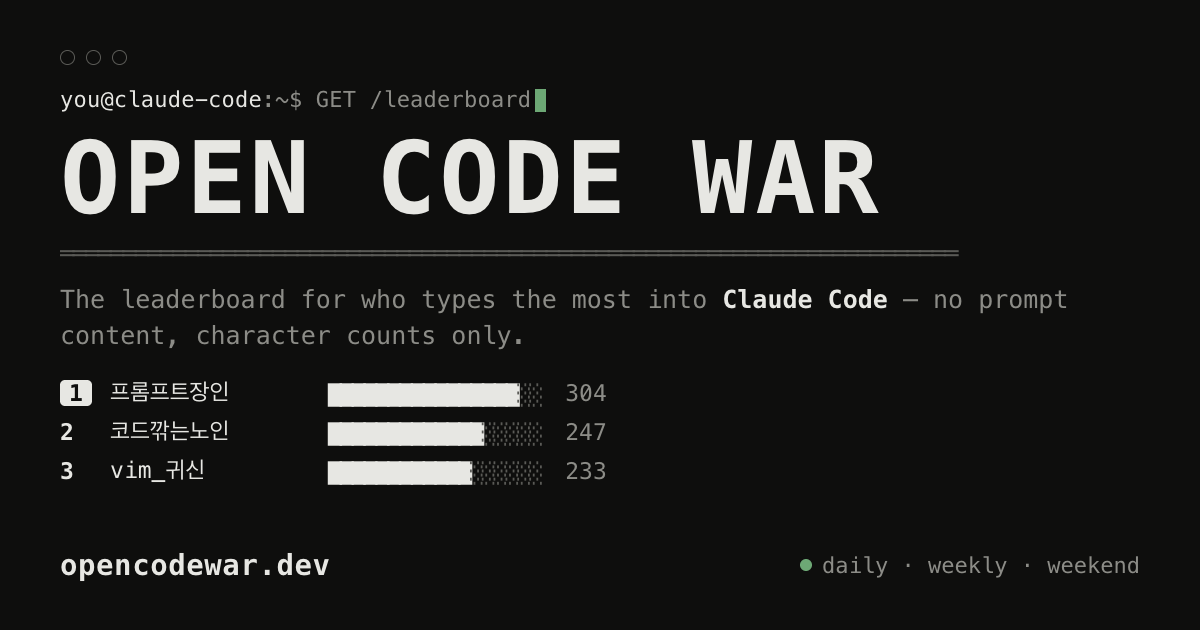
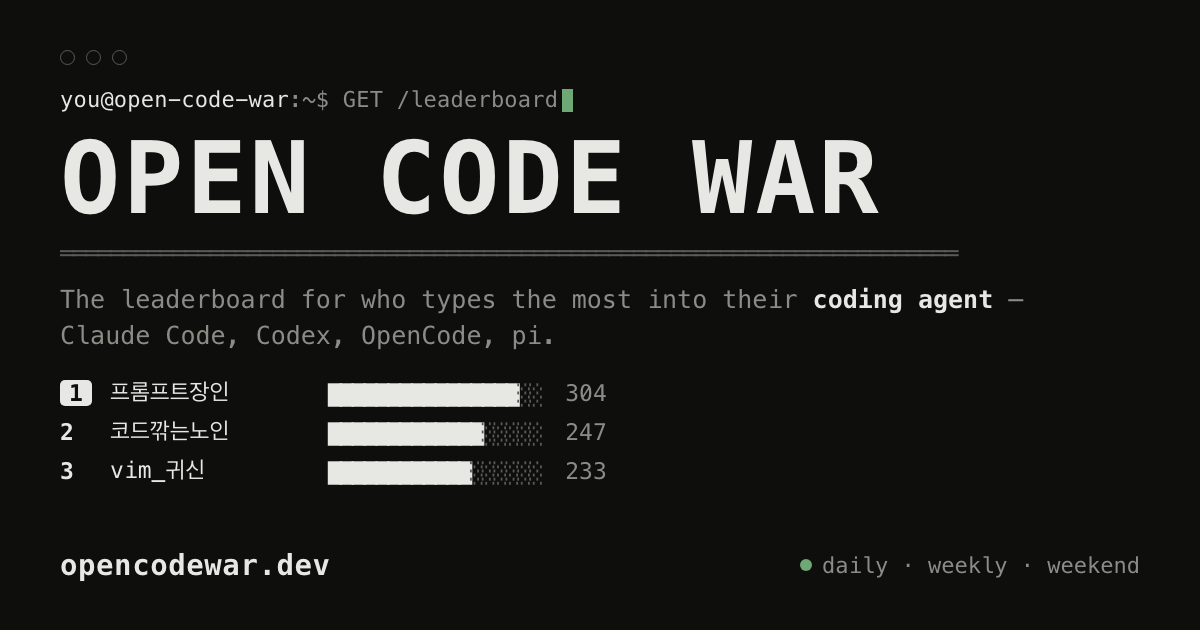
소개 문구를 코딩 에이전트 전반으로 확장
네 에이전트(Claude Code·Codex·OpenCode·pi)를 모두 지원하게 됐는데 소개 문구는
아직 Claude Code 전용처럼 읽혀서, 유저 대면 카피를 일괄로 넓혔다.

- 태그라인: "코딩 에이전트에 가장 많이 입력한 코더를 가리는 리더보드 —
  클로드 코드·코덱스·오픈코드·파이" (EN/KO). 중립 표현으로 넓히되 지원 목록을
  병기해, 검색·공유에서 각 에이전트 이름이 걸리고 신규 유저가 자기 도구가
  되는지 바로 확인할 수 있게 했다
- web: meta description·og·twitter·JSON-LD 전부 갱신. og:title 은
  "Claude Code Leaderboard" → "Coding Agent Leaderboard"
- 터미널 시그니처 you@claude-code → you@open-code-war (index·privacy)
- og.png 재생성: 문구가 이미지에 구워져 있어 mockups/og.html 을 고치고
  헤드리스 크롬으로 1200x630 다시 렌더. 디자인은 그대로, 문구만 교체
- README(한/영): 헤드라인·배지·푸터 확장, 아키텍처 도식 좌측 박스를
  "코딩 에이전트 훅·어댑터"로 교체(한글 폭 계산해 정렬 유지),
  저장소 구조에 adapters/ 추가, "다른 에이전트" 설치 섹션 신설
  (Codex 는 trust 승인 단계까지 명시)
- backend/og.ts: 프로필 공유 카드 설명을 coding agent activity 로. 테스트 동기화
- 플러그인 메타(marketplace.json·plugin.json): 코딩 에이전트 기준으로 설명 수정,
  Claude Code 훅 + 어댑터 합산이라는 점 명시, 키워드에 codex·opencode 추가

훅 동작을 설명하는 기술 서술(track.mjs·validate.ts·adapters·DESIGN §4)은
실제로 Claude Code 를 특정하는 내용이라 넓히지 않고 그대로 뒀다.

Changed region(s): [[0.5858, 0.4524, 0.8942, 0.5127], [0.0925, 0.1206, 0.4933, 0.181], [0.0308, 0.5127, 0.4625, 0.573]]

diff --git a/web/index.html b/web/index.html
@@ -4,7 +4,7 @@
 <meta charset="utf-8" />
 <meta name="viewport" content="width=device-width, initial-scale=1" />
 <title>Open Code War — Leaderboard (live)</title>
-<meta name="description" content="A live leaderboard for who types the most into Claude Code — daily, weekly & weekend. Privacy-first: no prompt content collected, only character counts." />
+<meta name="description" content="A live leaderboard for who types the most into their coding agent — Claude Code, Codex, OpenCode, pi. Daily, weekly & weekend. Privacy-first: no prompt content collected, only character counts." />
 <link rel="canonical" href="https://opencodewar.dev/" />
 <link rel="icon" href="/favicon.svg" type="image/svg+xml" />
 <meta name="theme-color" media="(prefers-color-scheme: light)" content="#F6F6F4" />
@@ -13,20 +13,20 @@
 <!-- Open Graph (Facebook, KakaoTalk, Slack, LinkedIn 등) -->
 <meta property="og:type" content="website" />
 <meta property="og:site_name" content="Open Code War" />
-<meta property="og:title" content="Open Code War — Claude Code Leaderboard" />
-<meta property="og:description" content="A live leaderboard for who types the most into Claude Code — daily, weekly & weekend. No prompt content collected." />
+<meta property="og:title" content="Open Code War — Coding Agent Leaderboard" />
+<meta property="og:description" content="A live leaderboard for who types the most into their coding agent — Claude Code, Codex, OpenCode, pi. No prompt content collected." />
 <meta property="og:url" content="https://opencodewar.dev/" />
 <meta property="og:image" content="https://opencodewar.dev/og.png" />
 <meta property="og:image:width" content="1200" />
 <meta property="og:image:height" content="630" />
-<meta property="og:image:alt" content="Open Code War — the Claude Code typing leaderboard" />
+<meta property="og:image:alt" content="Open Code War — the coding agent typing leaderboard" />
 <meta property="og:locale" content="en_US" />
 <meta property="og:locale:alternate" content="ko_KR" />
 
 <!-- Twitter / X -->
 <meta name="twitter:card" content="summary_large_image" />
-<meta name="twitter:title" content="Open Code War — Claude Code Leaderboard" />
-<meta name="twitter:description" content="A live leaderboard for who types the most into Claude Code. Privacy-first: no prompt content, only character counts." />
+<meta name="twitter:title" content="Open Code War — Coding Agent Leaderboard" />
+<meta name="twitter:description" content="A live leaderboard for who types the most into their coding agent — Claude Code, Codex, OpenCode, pi. Privacy-first: no prompt content, only character counts." />
 <meta name="twitter:image" content="https://opencodewar.dev/og.png" />
 
 <!-- 구조화 데이터 (검색 리치 결과) -->
@@ -38,7 +38,7 @@
   "url": "https://opencodewar.dev/",
   "applicationCategory": "DeveloperApplication",
   "operatingSystem": "Any",
-  "description": "A live leaderboard for who types the most into Claude Code — daily, weekly and weekend boards. Privacy-first: no prompt content is collected, only character counts.",
+  "description": "A live leaderboard for who types the most into their coding agent — Claude Code, Codex, OpenCode and pi. Daily, weekly and weekend boards. Privacy-first: no prompt content is collected, only character counts.",
   "offers": { "@type": "Offer", "price": "0", "priceCurrency": "USD" }
 }
 </script>
@@ -237,14 +237,14 @@
       <button class="theme-toggle" id="themeBtn" type="button">◐ theme</button>
     </div>
     <div class="screen">
-      <div class="echo"><span class="sig">you@claude-code</span>:~$ <span id="cmdEcho">GET /leaderboard?type=daily&amp;metric=prompts</span> <span class="cursor" aria-hidden="true"></span></div>
+      <div class="echo"><span class="sig">you@open-code-war</span>:~$ <span id="cmdEcho">GET /leaderboard?type=daily&amp;metric=prompts</span> <span class="cursor" aria-hidden="true"></span></div>
 
       <div id="boardView">
       <section class="box banner">
         <span class="legend">ocw · live</span>
         <h1 class="big">OPEN CODE WAR</h1>
         <div class="rule" aria-hidden="true">════════════════════════════════════════════════════════════════</div>
-        <p data-i18n="tagline">The leaderboard for who types the most into Claude Code — updated on a schedule.</p>
+        <p data-i18n="tagline">The leaderboard for who types the most into their coding agent — Claude Code, Codex, OpenCode, pi.</p>
         <div class="status">
           <span><span class="dotlive" id="liveDot" aria-hidden="true"></span><span id="liveText">Connecting…</span></span>
           <span><span data-i18n="joined">joined</span> <b id="countChip">–</b></span>
@@ -400,7 +400,7 @@
   const T = {
     en: {
       langBtn: '한국어',
-      tagline: 'The leaderboard for who types the most into Claude Code — updated on a schedule.',
+      tagline: 'The leaderboard for who types the most into their coding agent — Claude Code, Codex, OpenCode, pi.',
       live_on: 'Live', live_off: 'Server unreachable',
       joined: 'joined', rank1: '#1', updated: 'Updated',
       sub_daily: 'today', sub_weekly: 'mon–sun', sub_weekend: 'fri·sat·sun',
@@ -430,7 +430,7 @@
     },
     ko: {
       langBtn: 'EN',
-      tagline: '클로드 코드에 가장 많이 입력한 코더를 가리는 리더보드 — 일정 간격으로 갱신.',
+      tagline: '코딩 에이전트에 가장 많이 입력한 코더를 가리는 리더보드 — 클로드 코드·코덱스·오픈코드·파이.',
       live_on: '집계 중', live_off: '서버 연결 실패',
       joined: '참가', rank1: '1위', updated: '집계',
       sub_daily: '일간', sub_weekly: '주간', sub_weekend: '금·토·일',

diff --git a/backend/test/og.test.ts b/backend/test/og.test.ts
@@ -41,27 +41,27 @@ const row = (overrides: Partial<ProfileMetaRow> = {}): ProfileMetaRow => ({
 describe('buildOgDescription', () => {
   it('role·company·bio 를 모두 조합한다', () => {
     const desc = buildOgDescription(row({ role: 'Backend Engineer', company: 'Acme', bio: '타이핑이 곧 실력' }));
-    expect(desc).toBe('Backend Engineer @ Acme · 타이핑이 곧 실력 — Claude Code activity on Open Code War.');
+    expect(desc).toBe('Backend Engineer @ Acme · 타이핑이 곧 실력 — coding agent activity on Open Code War.');
   });
 
   it('role 만 있으면 company 구분자(@) 없이 만든다', () => {
     const desc = buildOgDescription(row({ role: 'Backend Engineer' }));
-    expect(desc).toBe('Backend Engineer — Claude Code activity on Open Code War.');
+    expect(desc).toBe('Backend Engineer — coding agent activity on Open Code War.');
   });
 
   it('bio 만 있으면 bio 로 시작한다', () => {
     const desc = buildOgDescription(row({ bio: '주말에도 코딩' }));
-    expect(desc).toBe('주말에도 코딩 — Claude Code activity on Open Code War.');
+    expect(desc).toBe('주말에도 코딩 — coding agent activity on Open Code War.');
   });
 
   it('프로필 정보가 없으면 기본 문구를 쓴다', () => {
     const desc = buildOgDescription(row());
-    expect(desc).toBe('Claude Code activity — prompts & chars over the last 30 days on Open Code War.');
+    expect(desc).toBe('Coding agent activity — prompts & chars over the last 30 days on Open Code War.');
   });
 
   it('공백뿐인 bio 는 무시한다', () => {
     const desc = buildOgDescription(row({ bio: '   ' }));
-    expect(desc).toBe('Claude Code activity — prompts & chars over the last 30 days on Open Code War.');
+    expect(desc).toBe('Coding agent activity — prompts & chars over the last 30 days on Open Code War.');
   });
 
   it('길면 MAX_OG_DESC 이내로 말줄임한다', () => {

diff --git a/web/privacy.html b/web/privacy.html
@@ -84,7 +84,7 @@
       <button id="themeBtn" type="button">◐ theme</button>
     </div>
     <div class="screen">
-      <div class="echo"><span class="sig">you@claude-code</span>:~$ cat privacy.txt</div>
+      <div class="echo"><span class="sig">you@open-code-war</span>:~$ cat privacy.txt</div>
       <a class="backlink" href="/">← Leaderboard</a>
 
       <!-- ============ ENGLISH ============ -->
@@ -92,7 +92,7 @@
         <h1>Privacy Policy</h1>
         <p class="updated">Last updated: July 13, 2026</p>
 
-        <p class="lead"><b>The short version.</b> Open Code War ranks how much you type into Claude Code. We collect the minimum needed to build the leaderboard and never see or store the <b>content</b> of your prompts — only counts. The whole codebase is open source, so you can verify exactly what happens.
+        <p class="lead"><b>The short version.</b> Open Code War ranks how much you type into your coding agent (Claude Code, Codex, OpenCode, pi). We collect the minimum needed to build the leaderboard and never see or store the <b>content</b> of your prompts — only counts. The whole codebase is open source, so you can verify exactly what happens.
           <br /><a class="link repo" href="https://github.com/dodohankim/opencodewar" target="_blank" rel="noopener">github.com/dodohankim/opencodewar ↗</a></p>
 
         <h2><span class="n">01</span> What we collect</h2>
@@ -154,7 +154,7 @@
         <h1>개인정보처리방침</h1>
         <p class="updated">최종 업데이트: 2026년 7월 13일</p>
 
-        <p class="lead"><b>요약.</b> Open Code War는 Claude Code에 얼마나 많이 입력하는지로 순위를 매기는 리더보드입니다. 리더보드에 필요한 최소한만 수집하며, 프롬프트의 <b>내용</b>은 절대 보거나 저장하지 않습니다 — 오직 개수만 셉니다. 전체 코드가 오픈소스라 무엇이 일어나는지 직접 검증할 수 있습니다.
+        <p class="lead"><b>요약.</b> Open Code War는 코딩 에이전트(클로드 코드·코덱스·오픈코드·파이)에 얼마나 많이 입력하는지로 순위를 매기는 리더보드입니다. 리더보드에 필요한 최소한만 수집하며, 프롬프트의 <b>내용</b>은 절대 보거나 저장하지 않습니다 — 오직 개수만 셉니다. 전체 코드가 오픈소스라 무엇이 일어나는지 직접 검증할 수 있습니다.
           <br /><a class="link repo" href="https://github.com/dodohankim/opencodewar" target="_blank" rel="noopener">github.com/dodohankim/opencodewar ↗</a></p>
 
         <h2><span class="n">01</span> 수집하는 것</h2>

diff --git a/backend/src/og.ts b/backend/src/og.ts
@@ -23,8 +23,8 @@ export function buildOgDescription(row: ProfileMetaRow): string {
   const bio = (row.bio ?? '').trim();
   const intro = [who, bio].filter(Boolean).join(' · ');
   const desc = intro
-    ? `${intro} — Claude Code activity on Open Code War.`
-    : 'Claude Code activity — prompts & chars over the last 30 days on Open Code War.';
+    ? `${intro} — coding agent activity on Open Code War.`
+    : 'Coding agent activity — prompts & chars over the last 30 days on Open Code War.';
   if (desc.length <= MAX_OG_DESC) return desc;
   return desc.slice(0, MAX_OG_DESC - 1).trimEnd() + '…';
 }

diff --git a/mockups/og.html b/mockups/og.html
@@ -45,10 +45,10 @@
 </head>
 <body>
   <div class="lights"><i></i><i></i><i></i></div>
-  <div class="prompt"><span class="sig">you@claude-code</span>:~$ GET /leaderboard<span class="cur"></span></div>
+  <div class="prompt"><span class="sig">you@open-code-war</span>:~$ GET /leaderboard<span class="cur"></span></div>
   <div class="big">OPEN CODE WAR</div>
   <div class="rule">════════════════════════════════════════════════════════════════════════</div>
-  <div class="tag">The leaderboard for who types the most into <b>Claude Code</b> — no prompt content, character counts only.</div>
+  <div class="tag">The leaderboard for who types the most into their <b>coding agent</b> — Claude Code, Codex, OpenCode, pi.</div>
   <div class="rows">
     <div class="row"><span class="rk one">1</span><span class="nk">프롬프트장인</span><span class="bar"><span class="on">████████████████</span><span class="off">░░</span></span><span class="n">304</span></div>
     <div class="row"><span class="rk">2</span><span class="nk">코드깎는노인</span><span class="bar"><span class="on">█████████████</span><span class="off">░░░░░</span></span><span class="n">247</span></div>

diff --git a/README.en.md b/README.en.md
@@ -2,15 +2,15 @@
 
 # ⚔️ Open Code War
 
-**A leaderboard game where Claude Code users compete on "who types the most."**
+**A leaderboard game where coding agent users compete on "who types the most."**
 
-A plugin hook counts your input activity anonymously → stores it on Cloudflare → shows daily / weekly / weekend rankings and a per-country map on the web.
+An agent hook counts your input activity anonymously → stores it on Cloudflare → shows daily / weekly / weekend rankings and a per-country map on the web.
 
 **English** · [한국어](README.md)
 
 [![website](https://img.shields.io/badge/opencodewar.dev-1a1a1a?style=for-the-badge)](https://opencodewar.dev)
 [![status](https://img.shields.io/badge/status-early%20development-e08a2e?style=for-the-badge)](#-roadmap)
-[![Claude Code](https://img.shields.io/badge/Claude%20Code-plugin-6c5ce7?style=for-the-badge)](#-install-the-plugin)
+[![agents](https://img.shields.io/badge/Claude%20Code%20·%20Codex%20·%20OpenCode%20·%20pi-supported-6c5ce7?style=for-the-badge)](#-install-the-plugin)
 
 <sub>Codename: <b>OCW</b> · First target 🇰🇷 Korea → eventually a worldwide per-country globe ranking</sub>
 
@@ -30,7 +30,7 @@ Open Code War **never collects prompt content.** It only counts the number of su
 | **Agent type** used (Claude Code·Codex etc., a single label) | Raw IP storage |
 | (server-side) request country `cf.country` | |
 
-> Even though the hook receives the raw prompt, it **computes only the character count and sends that — never the text.** It runs **fail-open** (short timeout + background fire-and-forget) so it never blocks or slows down your use of Claude Code, even if the network fails.
+> Even though the hook receives the raw prompt, it **computes only the character count and sends that — never the text.** It runs **fail-open** (short timeout + background fire-and-forget) so it never blocks or slows down your agent, even if the network fails.
 
 ---
 
@@ -38,8 +38,8 @@ Open Code War **never collects prompt content.** It only counts the number of su
 
 ```
 ┌──────────────────────────────┐   POST /track      ┌───────────────────────────┐
-│  Claude Code plugin           │ userId,chars,agent▶│  Cloudflare Worker         │
-│  · UserPromptSubmit hook      │                    │  · detects cf.country      │
+│  Coding agent hook / adapter  │ userId,chars,agent▶│  Cloudflare Worker         │
+│  · one prompt submit = 1 event│                    │  · detects cf.country      │
 │  · /ocw nickname command      │  ─ POST /register ▶│  · records events + aggreg.│
 │  · ~/.open-code-war/config    │                    │  · Cron snapshot (KV)      │
 └──────────────────────────────┘                    └───────────┬───────────────┘
@@ -62,6 +62,7 @@ Open Code War **never collects prompt content.** It only counts the number of su
 ```
 open-code-war/
 ├── plugin/            # Claude Code plugin (collection hook + /ocw command)
+├── adapters/          # adapters for other agents (Codex·OpenCode·pi)
 │   ├── .claude-plugin/plugin.json
 │   ├── hooks/hooks.json          # UserPromptSubmit → track.mjs (async·non-blocking)
 │   ├── commands/ocw.md           # /ocw slash command
@@ -105,6 +106,28 @@ To update right now manually:
 ```
 
 > ℹ️ The backend is **deployed and live (beta)** with its URL baked into the plugin, so collection works right after install. (The `/plugin marketplace add` command requires this repo to be pushed to GitHub.)
+
+### Other agents (Codex · OpenCode · pi)
+
+Agents other than Claude Code are counted **into the same account** via the adapters in `adapters/`.
+
+```bash
+git clone https://github.com/dodohankim/opencodewar.git ~/.open-code-war/src
+
+# Codex — the installer merges a hook into ~/.codex/hooks.json. Then start codex
+#         and pick "Trust all and continue" on the "Hooks need review" screen.
+node ~/.open-code-war/src/adapters/codex/install.mjs
+
+# OpenCode
+mkdir -p ~/.config/opencode/plugin
+ln -sf ~/.open-code-war/src/adapters/opencode/ocw-track.js ~/.config/opencode/plugin/ocw-track.js
+
+# pi
+mkdir -p ~/.pi/agent/extensions
+ln -sf ~/.open-code-war/src/adapters/pi/ocw-track.ts ~/.pi/agent/extensions/ocw-track.ts
+```
+
+See [`adapters/README.md`](adapters/README.md) for requirements and counting rules.
 
 ### Development (local load)
 
@@ -189,5 +212,5 @@ See [`DESIGN.md`](./DESIGN.md) for detailed design and decisions.
 > BSL is not an OSI-approved open-source license; it is 'source-available'. The name/logo (Open Code War, opencodewar) and the domain trademark are protected independently of the license.
 
 <div align="center">
-<sub>Made for the Claude Code community · <a href="https://opencodewar.dev">opencodewar.dev</a></sub>
+<sub>Made for the coding agent community · <a href="https://opencodewar.dev">opencodewar.dev</a></sub>
 </div>

diff --git a/DESIGN.md b/DESIGN.md
@@ -1,7 +1,7 @@
 # Open Code War — 설계 문서 (v0.1)
 
-> Claude Code 사용자들이 "누가 제일 많이 입력했나"를 겨루는 리더보드 게임.
-> 플러그인 훅으로 입력을 수집 → Cloudflare에 집계 → 웹에서 일간·주간·주말 랭킹과 지도로 표시.
+> 코딩 에이전트 사용자들이 "누가 제일 많이 입력했나"를 겨루는 리더보드 게임.
+> 에이전트 훅으로 입력을 수집 → Cloudflare에 집계 → 웹에서 일간·주간·주말 랭킹과 지도로 표시.
 
 - 상태: **설계 단계 (구현 전)**
 - 코드네임: OCW
@@ -12,7 +12,7 @@
 ## 1. 목표와 비목표
 
 ### 목표
-- Claude Code에 플러그인을 설치한 사람의 **입력 활동량**을 익명으로 수집한다.
+- 코딩 에이전트(Claude Code·Codex·OpenCode·pi)에 훅/어댑터를 설치한 사람의 **입력 활동량**을 익명으로 수집한다.
 - 유저별 **리더보드**를 웹으로 공개한다. (일간 / 주간 / 주말)
 - 처음엔 한반도, 나중엔 지구본에서 **국가별 랭킹**을 시각화한다.
 - **Anthropic/Claude 톤**의 디자인으로 만든다.

diff --git a/plugin/README.md b/plugin/README.md
@@ -1,6 +1,7 @@
 # Open Code War — Claude Code 플러그인 (M2)
 
 클로드 코드에 프롬프트를 제출할 때마다 **입력 활동(횟수 + 글자 수)** 을 익명으로 집계해 리더보드로 보낸다.
+리더보드 자체는 코딩 에이전트 전반을 대상으로 하며, 코덱스·오픈코드·파이는 `adapters/` 의 어댑터로 같은 계정에 합산된다.
 
 ## 무엇을 수집하나 / 안 하나
 